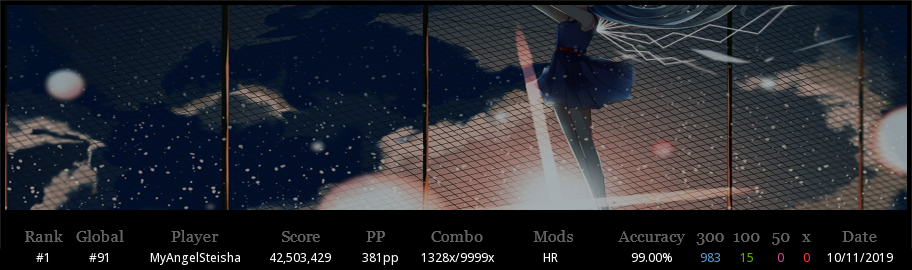
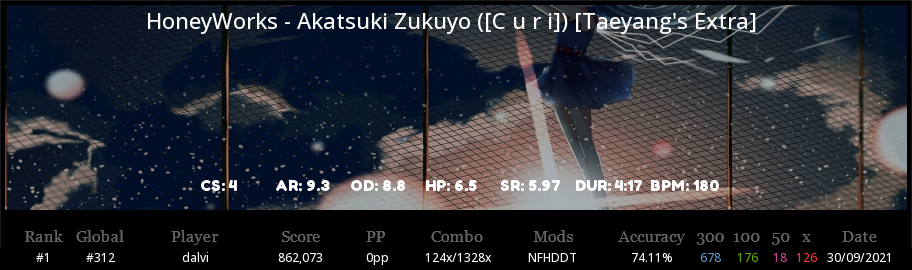
finished /conf

diff --git a/renderImage/renderConf.js b/renderImage/renderConf.js
@@ -6,23 +6,57 @@ async function renderConf(beatmap, scores) {
 
   let template = await Jimp.read(`${__dirname}/templateImages/conf.png`);
   image.blit(template, 0, 0);
-  const background = await Jimp.read(beatmap.beatmapset.covers["cover@2x"]);
-  //   const bgmask = await Jimp.read(`${__dirname}/templateImages/bgmask.png`);
 
+  const background = await Jimp.read(beatmap.beatmapset.covers["cover@2x"]);
   background.resize(902, 205).fade(0.3);
-  // .mask(bgmask, 0, 0);
   image.blit(background, 5, 5);
 
-  const scoresImg = await printScores(scores);
+  // console.log(beatmap);
+
+  await printMapInfo(beatmap);
+
+  const scoresImg = await printScores(scores, beatmap.max_combo);
   image.blit(scoresImg, 0, 249);
 
   await image.writeAsync("conf1.png");
   return "conf1.png";
+
+  async function printMapInfo(beatmap) {
+    const font = await Jimp.loadFont(`${__dirname}/fonts/lastDefault.fnt`);
+    const fontForName = await Jimp.loadFont(
+      `${__dirname}/fonts/mediumLast.fnt`
+    );
+
+    image.print(
+      fontForName,
+      20,
+      5,
+      {
+        text: `${beatmap.beatmapset.artist} - ${beatmap.beatmapset.title} (${beatmap.beatmapset.creator}) [${beatmap.version}]`,
+        alignmentX: Jimp.HORIZONTAL_ALIGN_CENTER,
+        alignmentY: Jimp.VERTICAL_ALIGN_TOP,
+      },
+      862,
+      50
+    );
+
+    // stats
+    image.print(font, 200, 175, `CS: ${beatmap.cs}`);
+    image.print(font, 275, 175, `AR: ${beatmap.ar}`);
+    image.print(font, 350, 175, `OD: ${beatmap.accuracy}`);
+    image.print(font, 425, 175, `HP: ${beatmap.drain}`);
+    image.print(font, 500, 175, `SR: ${beatmap.difficulty_rating}`);
+
+    // print duration and bpm values
+    const min = Math.floor(beatmap.total_length / 60);
+    const sec = beatmap.total_length - min * 60;
+    const duration = `${min}:${sec < 10 ? 0 : ""}${sec}`;
+    image.print(font, 575, 175, `DUR: ${duration}`);
+    image.print(font, 650, 175, `BPM: ${+beatmap.bpm.toFixed(1)}`);
+  }
 }
 
-async function printMapInfo(beatmap) {}
-
-async function printScores(scores) {
+async function printScores(scores, maxCombo) {
   //   let image = await Jimp.read(`${__dirname}/templateImages/conf.png`);
   let image = new Jimp(912, scores.length * 20, "#000000");
 
@@ -34,8 +68,6 @@ async function printScores(scores) {
 
   image.resize(912, scores.length * 20);
 
-  const maxCombo = 9999;
-
   scores.forEach((score, i) => {
     // console.log(score);
     const y = 20 * i;
@@ -43,9 +75,9 @@ async function printScores(scores) {
     print(font, 77, y, `#${score.position.toLocaleString("en-US")}`, 46, 12);
     print(font, 145, y, score.user.username, 100, 12);
     print(font, 255, y, score.score.toLocaleString("en-US"), 90, 12);
-    print(font, 350, y, `${score.pp.toFixed()}pp`, 60, 12);
+    print(font, 355, y, `${score.pp.toFixed()}pp`, 45, 12);
     print(font, 420, y, `${score.max_combo}x/${maxCombo}x`, 75, 12);
-    print(font, 500, y, `${score.mods.join("")}`, 100, 12);
+    print(font, 510, y, `${score.mods.join("")}`, 85, 12);
     print(font, 620, y, `${(score.accuracy * 100).toFixed(2)}%`, 63, 12);
     print(font300, 697, y, score.statistics.count_300, 26, 12);
     print(font100, 734, y, score.statistics.count_100, 26, 12);

diff --git a/commands/handlers/top.js b/commands/handlers/top.js
@@ -14,8 +14,7 @@ async function top(ctx) {
   const username = command.join(" ");
   if (username) osuId = username;
   else osuId = (await User.findOne({ telegramId: userId })).osuId;
-  console.log(osuId, username, mods);
-  console.log(username ? true : false);
+  // console.log(osuId, username, mods);
   ctx.reply("your top scores");
 }
 

diff --git a/commands/handlers/conf.js b/commands/handlers/conf.js
@@ -55,6 +55,7 @@ async function conf(ctx) {
     // console.log(el);
     if (!el.value) return false;
     el.value.score.position = el.value.position;
+
     return el.value.score;
   });
 
